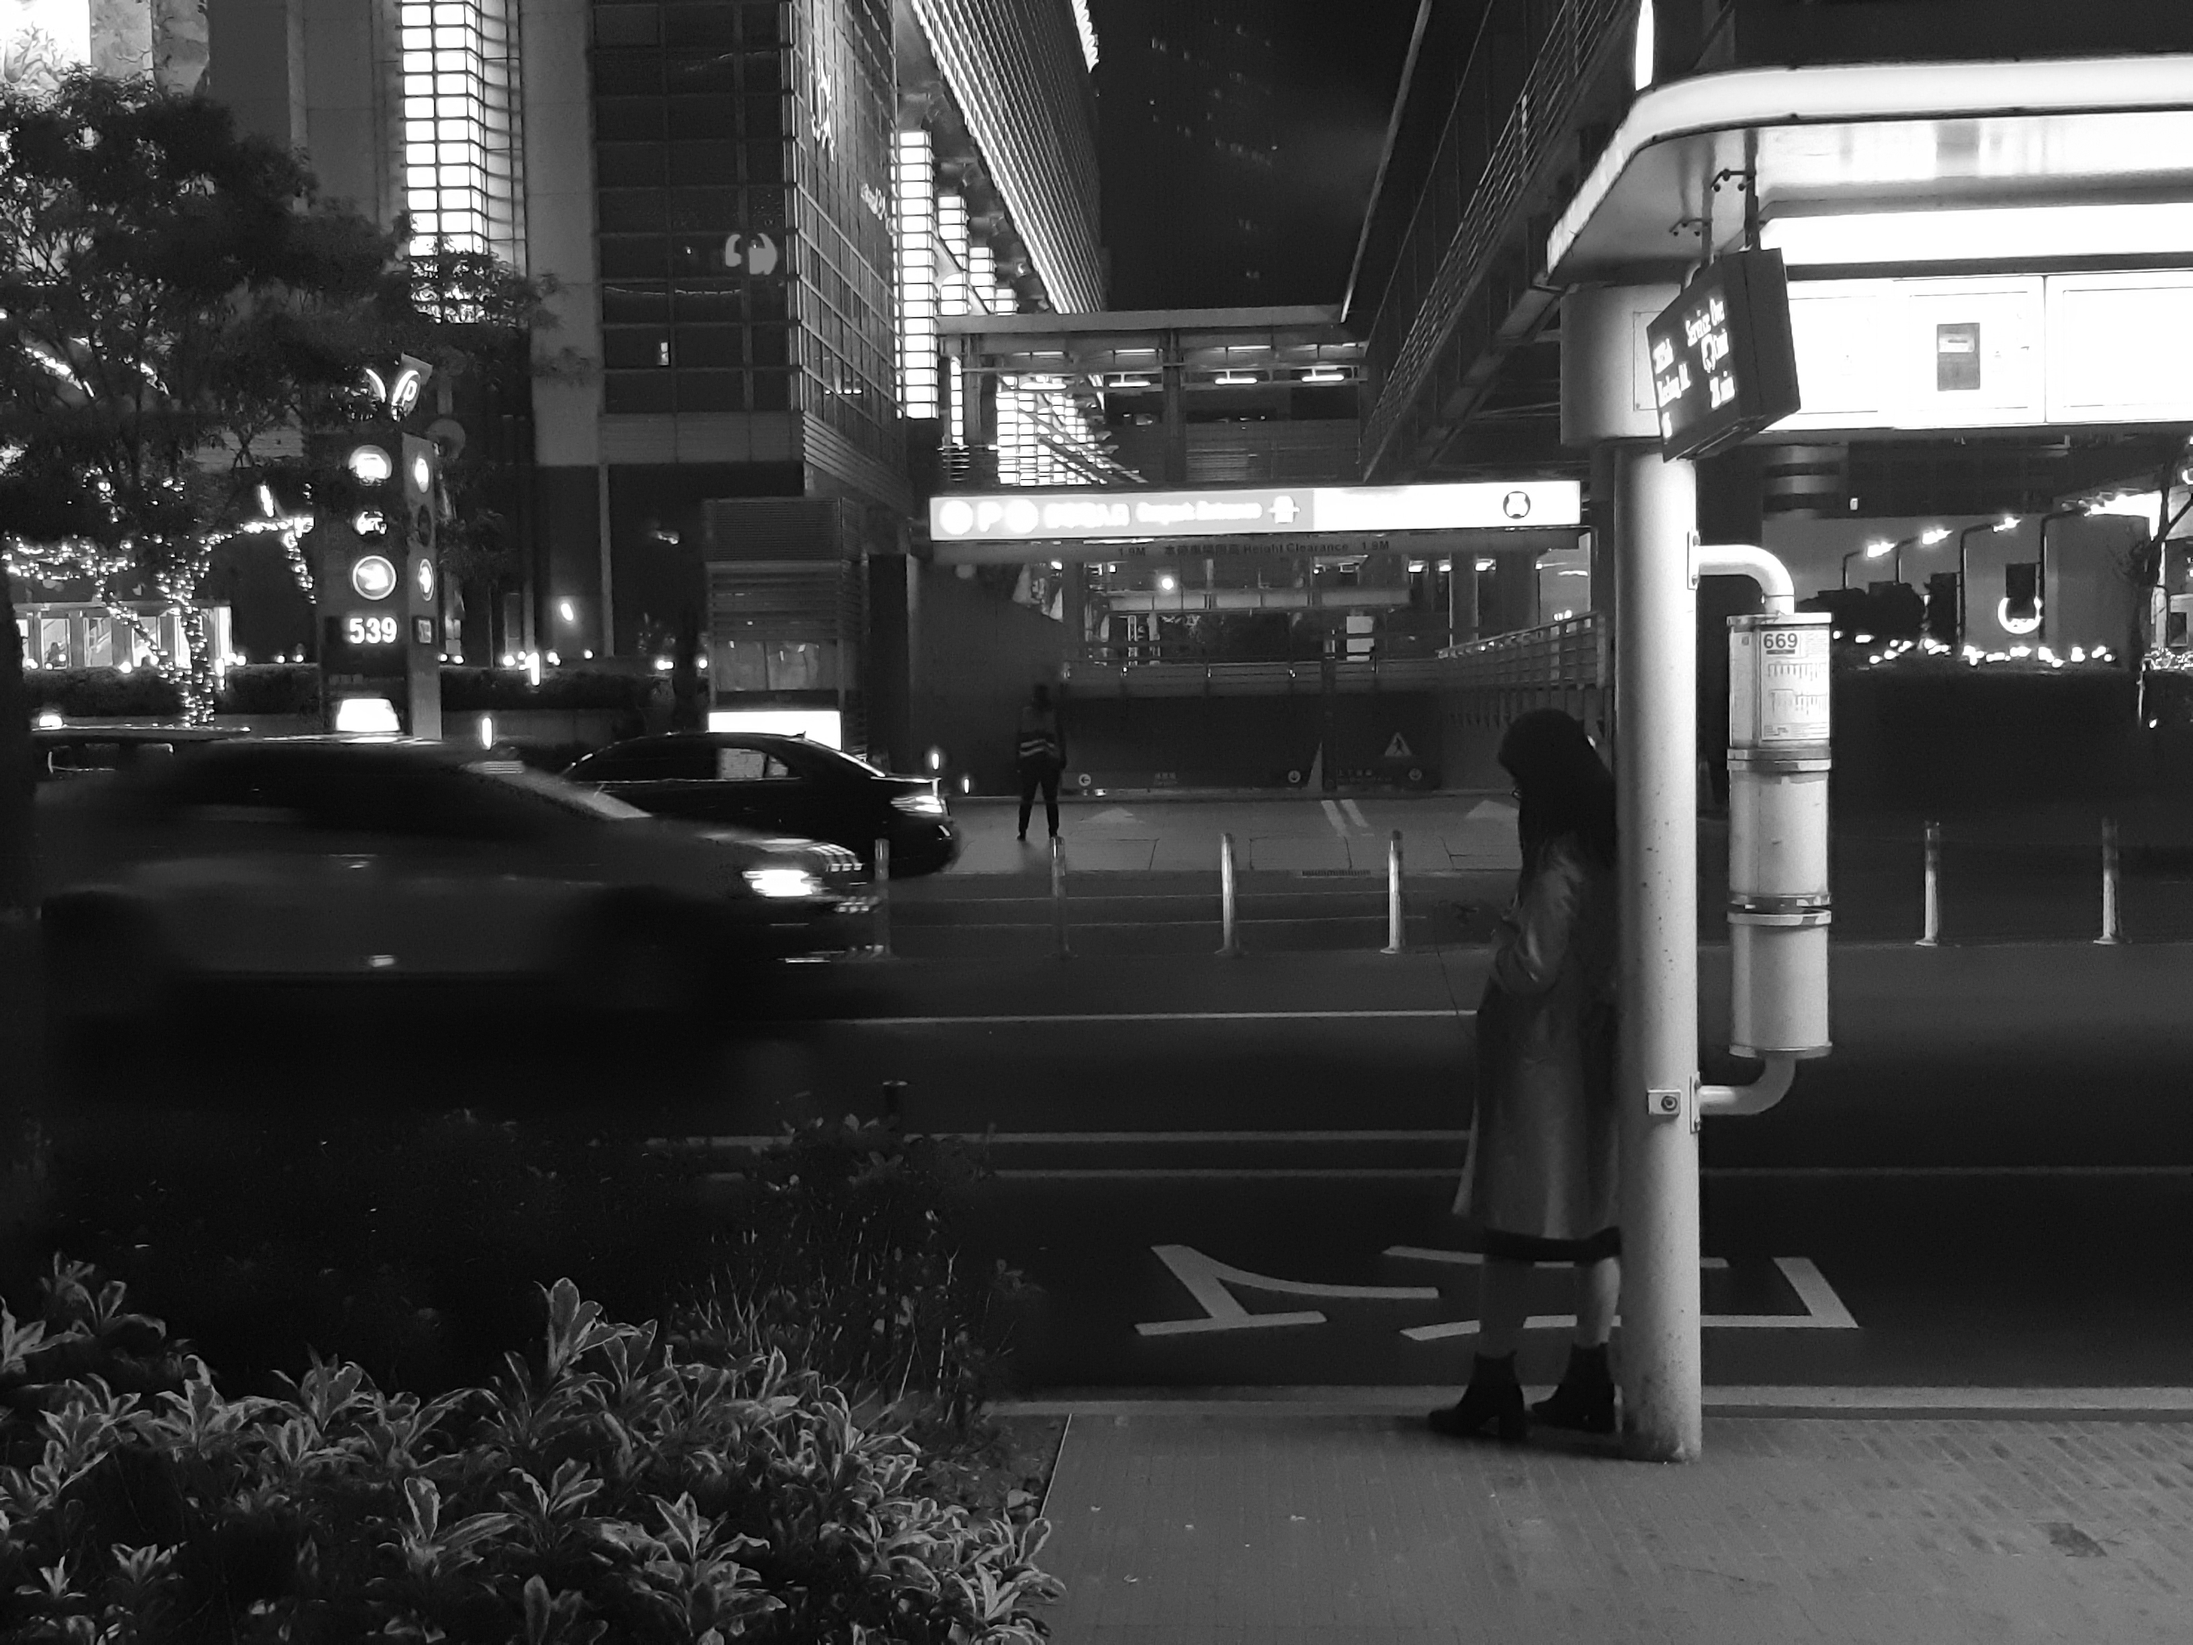
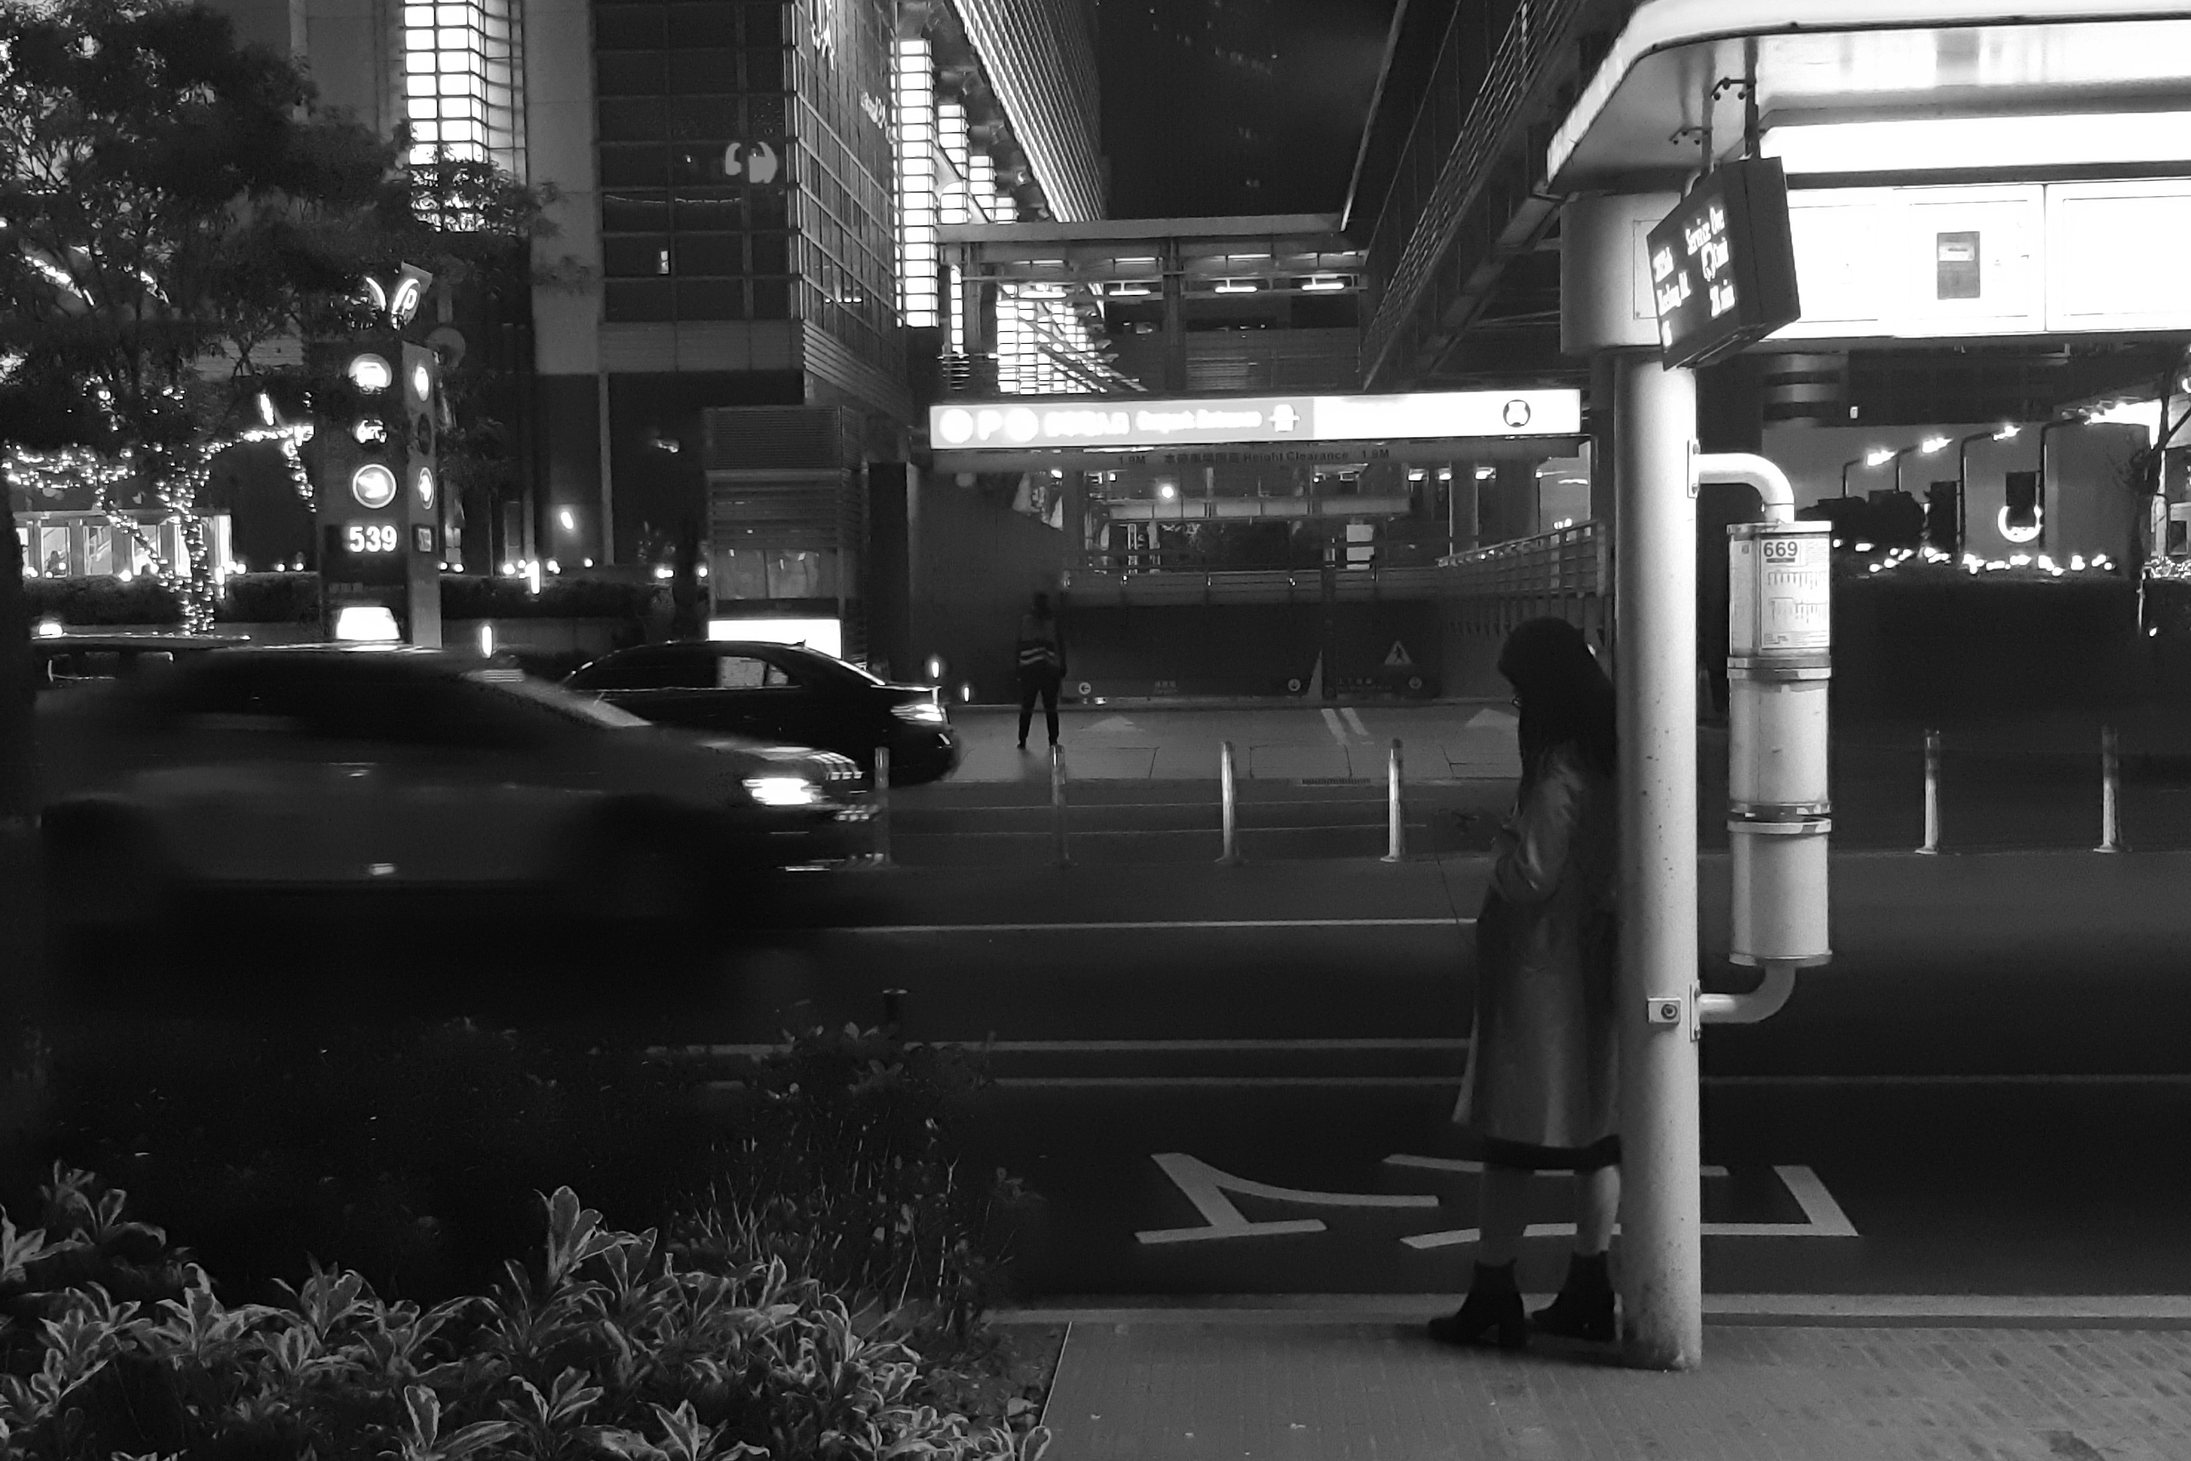
zzzzz

diff --git a/index.html b/index.html
@@ -343,18 +343,18 @@
      </div>
       <div class="col-lg-4 col-sm-6 mb-4">
         <div class="card h-100">
-         <a  href="#"><img class="card-img-top" src="img/20181217_200516.jpg" alt=""></a>
+         <a  href="#"><img class="card-img-top" src="img/20181201_000051.jpg" alt=""></a>
         <div class="card-body">
           <h4 class="card-title">
-            <a class="k" href="#">信義區街景</a>
+            <a class="k" href="#">peeta生活照</a>
           </h4>
-          <p class="card-text">(運用ps)</p>
+          <p class="card-text">平常喜歡紀錄她生活的點點滴滴(運用ps)</p>
         </div>
       </div>
     </div>
     <div class="col-lg-4 col-sm-6 mb-4">
       <div class="card h-100">
-        <a href="#"><img class="card-img-top" src="img/aaaa.jpg" alt=""></a>
+        <a href="#"><img class="card-img-top" src="img/1333.jpg" alt=""></a>
         <div class="card-body">
           <h4 class="card-title">
             <a class="k"href="#">失控</a>
